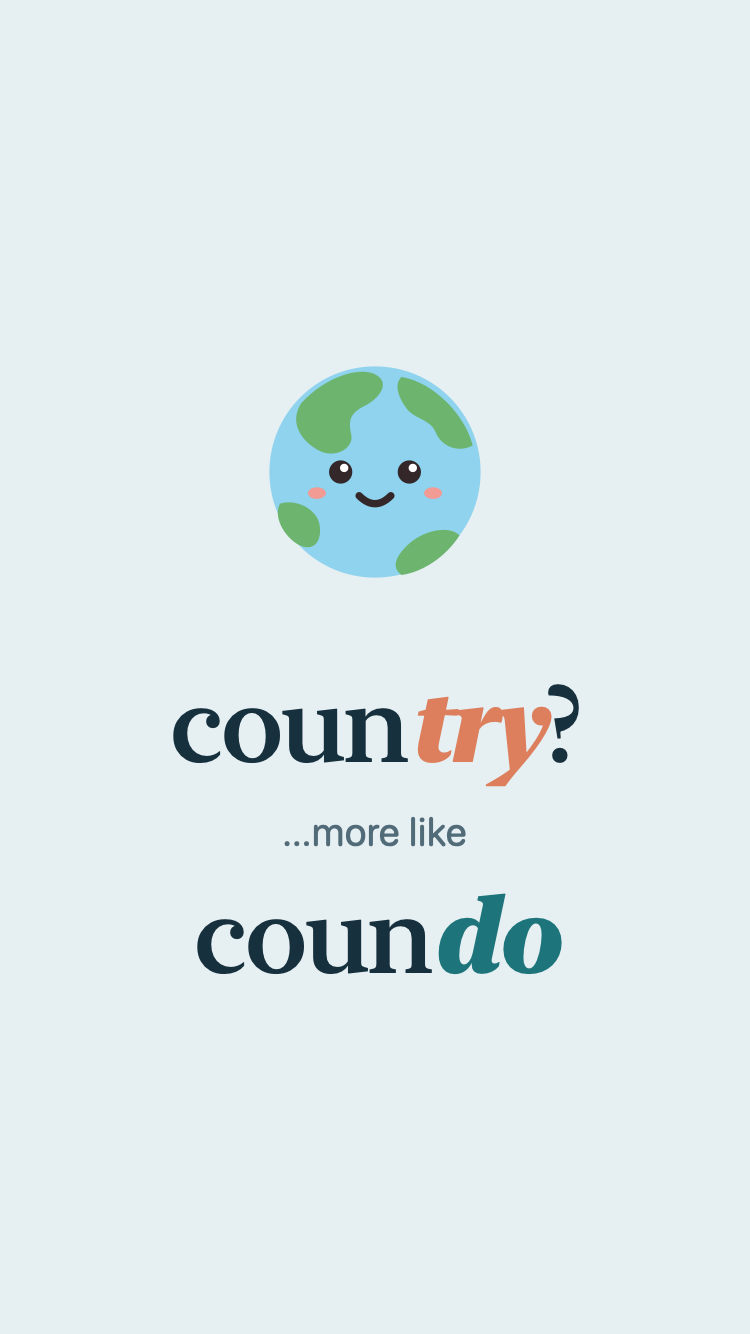
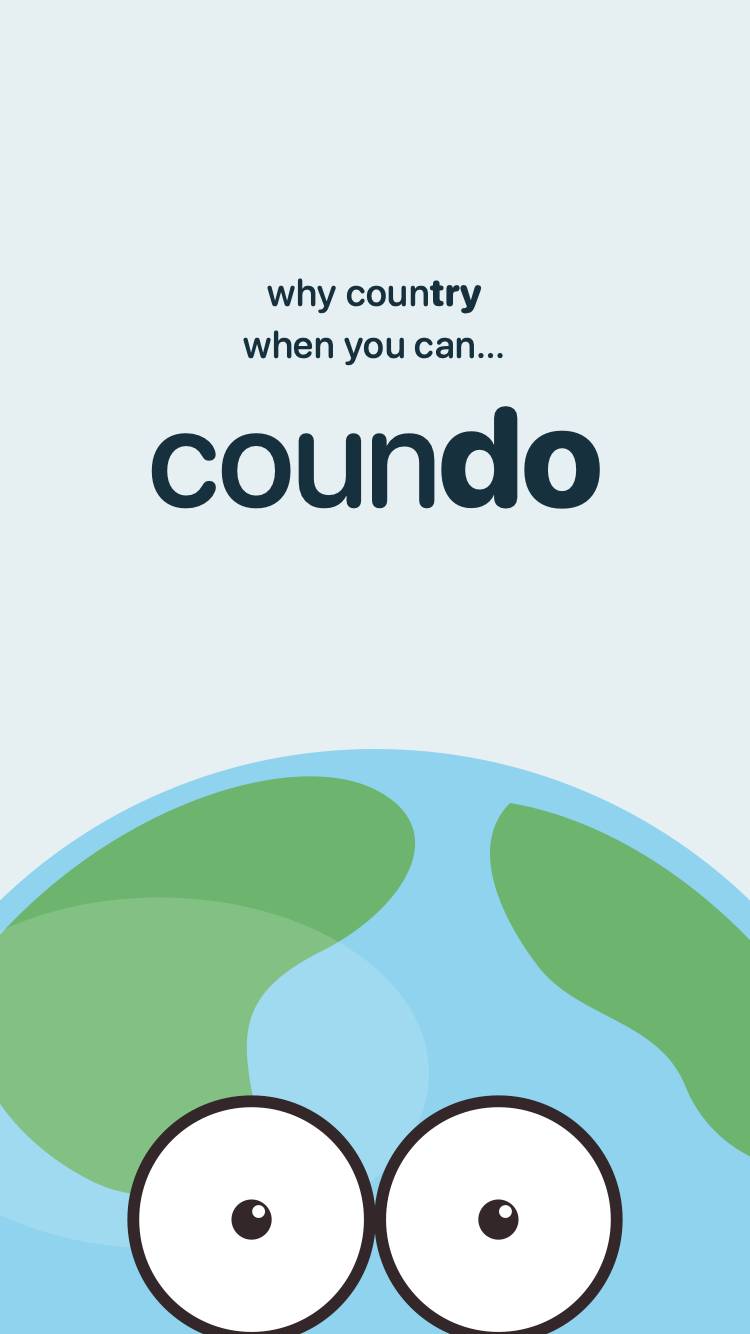
New peeking-globe splash and iPhone haptics that work on iOS 26.5

diff --git a/sw.js b/sw.js
@@ -1,5 +1,5 @@
 const PREFIX = 'coundo-';
-const CACHE = PREFIX + 'e4e51b957b';
+const CACHE = PREFIX + 'ba98c76bc4';
 const FILES = ["./","./index.html","./style.css","./manifest.webmanifest","./js/app.js","./js/characters.js","./js/draw.js","./js/flags.js","./js/fun-facts.js","./js/game.js","./js/haptics.js","./js/icons.js","./js/lesson.js","./js/map.js","./js/mix.js","./js/player.js","./js/preview.js","./js/questions.js","./js/rank-art.js","./js/screens.js","./js/sound.js","./js/splash.js","./js/srs.js","./js/stamp-art.js","./js/statistics.js","./js/stats.js","./js/store.js","./js/streak.js","./js/text.js","./js/theme.js","./js/ui.js","./js/util.js","./data/capital-locations.js","./data/countries.js","./data/flag-ratios.js","./data/fun-facts.js","./data/map.json","./data/similar-flags.js","./icons/icon-180.png","./icons/icon-192.png","./icons/icon-512.png","./flags/ad.svg","./flags/ae.svg","./flags/af.svg","./flags/ag.svg","./flags/al.svg","./flags/am.svg","./flags/ao.svg","./flags/ar.svg","./flags/at.svg","./flags/au.svg","./flags/az.svg","./flags/ba.svg","./flags/bb.svg","./flags/bd.svg","./flags/be.svg","./flags/bf.svg","./flags/bg.svg","./flags/bh.svg","./flags/bi.svg","./flags/bj.svg","./flags/bn.svg","./flags/bo.svg","./flags/br.svg","./flags/bs.svg","./flags/bt.svg","./flags/bw.svg","./flags/by.svg","./flags/bz.svg","./flags/ca.svg","./flags/cd.svg","./flags/cf.svg","./flags/cg.svg","./flags/ch.svg","./flags/ci.svg","./flags/cl.svg","./flags/cm.svg","./flags/cn.svg","./flags/co.svg","./flags/cr.svg","./flags/cu.svg","./flags/cv.svg","./flags/cy.svg","./flags/cz.svg","./flags/de.svg","./flags/dj.svg","./flags/dk.svg","./flags/dm.svg","./flags/do.svg","./flags/dz.svg","./flags/ec.svg","./flags/ee.svg","./flags/eg.svg","./flags/er.svg","./flags/es.svg","./flags/et.svg","./flags/fi.svg","./flags/fj.svg","./flags/fm.svg","./flags/fr.svg","./flags/ga.svg","./flags/gb.svg","./flags/gd.svg","./flags/ge.svg","./flags/gh.svg","./flags/gm.svg","./flags/gn.svg","./flags/gq.svg","./flags/gr.svg","./flags/gt.svg","./flags/gw.svg","./flags/gy.svg","./flags/hn.svg","./flags/hr.svg","./flags/ht.svg","./flags/hu.svg","./flags/id.svg","./flags/ie.svg","./flags/il.svg","./flags/in.svg","./flags/iq.svg","./flags/ir.svg","./flags/is.svg","./flags/it.svg","./flags/jm.svg","./flags/jo.svg","./flags/jp.svg","./flags/ke.svg","./flags/kg.svg","./flags/kh.svg","./flags/ki.svg","./flags/km.svg","./flags/kn.svg","./flags/kp.svg","./flags/kr.svg","./flags/kw.svg","./flags/kz.svg","./flags/la.svg","./flags/lb.svg","./flags/lc.svg","./flags/li.svg","./flags/lk.svg","./flags/lr.svg","./flags/ls.svg","./flags/lt.svg","./flags/lu.svg","./flags/lv.svg","./flags/ly.svg","./flags/ma.svg","./flags/mc.svg","./flags/md.svg","./flags/me.svg","./flags/mg.svg","./flags/mh.svg","./flags/mk.svg","./flags/ml.svg","./flags/mm.svg","./flags/mn.svg","./flags/mr.svg","./flags/mt.svg","./flags/mu.svg","./flags/mv.svg","./flags/mw.svg","./flags/mx.svg","./flags/my.svg","./flags/mz.svg","./flags/na.svg","./flags/ne.svg","./flags/ng.svg","./flags/ni.svg","./flags/nl.svg","./flags/no.svg","./flags/np.svg","./flags/nr.svg","./flags/nz.svg","./flags/om.svg","./flags/pa.svg","./flags/pe.svg","./flags/pg.svg","./flags/ph.svg","./flags/pk.svg","./flags/pl.svg","./flags/ps.svg","./flags/pt.svg","./flags/pw.svg","./flags/py.svg","./flags/qa.svg","./flags/ro.svg","./flags/rs.svg","./flags/ru.svg","./flags/rw.svg","./flags/sa.svg","./flags/sb.svg","./flags/sc.svg","./flags/sd.svg","./flags/se.svg","./flags/sg.svg","./flags/si.svg","./flags/sk.svg","./flags/sl.svg","./flags/sm.svg","./flags/sn.svg","./flags/so.svg","./flags/sr.svg","./flags/ss.svg","./flags/st.svg","./flags/sv.svg","./flags/sy.svg","./flags/sz.svg","./flags/td.svg","./flags/tg.svg","./flags/th.svg","./flags/tj.svg","./flags/tl.svg","./flags/tm.svg","./flags/tn.svg","./flags/to.svg","./flags/tr.svg","./flags/tt.svg","./flags/tv.svg","./flags/tw.svg","./flags/tz.svg","./flags/ua.svg","./flags/ug.svg","./flags/us.svg","./flags/uy.svg","./flags/uz.svg","./flags/va.svg","./flags/vc.svg","./flags/ve.svg","./flags/vn.svg","./flags/vu.svg","./flags/ws.svg","./flags/xk.svg","./flags/ye.svg","./flags/za.svg","./flags/zm.svg","./flags/zw.svg"];
 
 self.addEventListener('install', event => {

diff --git a/js/player.js b/js/player.js
@@ -1,5 +1,5 @@
 import { CONTINENT_BY_ID, COUNTRIES, REGION_BY_ID } from '../data/countries.js';
-import { TIME_LIMIT_MS, advance, applyAnswer, currentItem, difficulty, finish, finishedRegions, isNewFact, meetCountry, testRules } from './lesson.js';
+import { TIME_LIMIT_MS, advance, applyAnswer, currentItem, difficulty, finish, finishedRegions, isFinalItem, isNewFact, meetCountry, testRules } from './lesson.js';
 import { makeQuestion } from './questions.js';
 import { checkCapital } from './text.js';
 import { WorldMap, boxFromDegrees, shapeOf } from './map.js';
@@ -10,7 +10,7 @@ import { flag, preloadFlags, revealTogether } from './flags.js';
 import { SKILL_NAMES, button, countryMap, mysteryStamp, stamp, tone } from './ui.js';
 import { cactusCharacter, confetti, flameCharacter, globeCharacter } from './characters.js';
 import { filledIcon, icon, rankBadge } from './icons.js';
-import { celebrate, tap } from './haptics.js';
+import { ANSWER_BUZZ, FINISH_BUZZ, buzz, hapticOnTap } from './haptics.js';
 import { play } from './sound.js';
 import { h } from './util.js';
 
@@ -120,6 +120,7 @@ export function runSession(root, ctx, session, onExit) {
       });
       settle(correct, explain(code, correct));
     };
+    hapticOnTap(buttons[q.options.indexOf(q.code)]);
     target.append(h('div', { class: `options${two ? ' two' : ''}` }, buttons));
     const frames = buttons.flatMap(b => b.querySelector('.flag') ?? []);
     if (frames.length === 0) return;
@@ -149,6 +150,7 @@ export function runSession(root, ctx, session, onExit) {
       const input = h('input', {
         class: 'answer', type: 'text', placeholder: 'Type the capital', 'aria-label': 'Capital',
         autocomplete: 'off', autocorrect: 'off', autocapitalize: 'words', spellcheck: 'false', enterkeyhint: 'done',
+        onInput: () => hapticOnTap(check, input.value.trim() !== '' && checkCapital(q.code, input.value) !== 'wrong'),
       });
       const submit = typed => {
         if (input.disabled) return;
@@ -163,8 +165,9 @@ export function runSession(root, ctx, session, onExit) {
         settle(correct, [spelling, capitalNote(q.code)].join(' ').trim());
       };
       const form = h('form', { class: 'stack', onSubmit: e => { e.preventDefault(); if (input.value.trim()) submit(input.value); } }, input);
+      const check = h('button', { class: 'btn', type: 'button', onClick: () => { if (input.value.trim()) submit(input.value); } }, 'Check');
       const controls = h('div', { class: 'stack' },
-        h('button', { class: 'btn', type: 'submit' }, 'Check'),
+        check,
         button("I don't know", () => submit(null), 'plain'));
       form.append(controls);
       target.append(prompt('What is the capital of', `${COUNTRIES[q.code].inSentence}?`), form);
@@ -199,6 +202,7 @@ export function runSession(root, ctx, session, onExit) {
           map.emphasis = new Map([[code, '--accent']]);
           map.draw();
           check.disabled = false;
+          hapticOnTap(check, code === q.code);
         },
       }));
       const check = button('Check', () => {
@@ -254,8 +258,9 @@ export function runSession(root, ctx, session, onExit) {
     applyAnswer(state, session, correct, today);
     persist();
     play(correct ? 'right' : 'wrong', state.settings.sound);
-    if (correct) tap();
+    if (correct) buzz(ANSWER_BUZZ);
     const go = button('Continue', next);
+    if (isFinalItem(session)) hapticOnTap(go);
     footer.replaceChildren(h('div', { class: `feedback ${correct ? 'right' : 'wrong'}`, role: 'status' },
       h('div', {}, h('strong', {}, correct ? 'Correct' : 'Not quite'), message && h('p', {}, message)),
       go));
@@ -268,7 +273,7 @@ export function runSession(root, ctx, session, onExit) {
     finish(state, session, today);
     ctx.save();
     play('finish', state.settings.sound);
-    celebrate();
+    buzz(FINISH_BUZZ);
     showResults();
   }
 

diff --git a/index.html b/index.html
@@ -53,11 +53,11 @@
 </head>
 <body>
   <div id="app"></div>
-  <div id="splash" role="img" aria-label="Country? More like coundo.">
-    <svg viewBox="0 0 100 100"><circle cx="50" cy="50" r="40" fill="#8fd3ee"></circle><path fill="#6db56f" d="M22 24c9-10 22-14 28-11s2 9-4 12-6 6-5 11-6 9-12 6-12-10-7-18zM60 14c12 2 24 14 27 26-6 3-12 0-14-5s-8-5-11-9-5-9-2-12zM14 62c6-2 14 2 15 8s-2 10-7 8-11-10-8-16zM62 78c6-6 16-8 20-4-5 8-14 14-22 15-4-3-2-7 2-11z"></path><circle cx="37" cy="50" r="4.4" fill="#33272a"></circle><circle cx="38.32" cy="48.46" r="1.584" fill="#fff"></circle><circle cx="63" cy="50" r="4.4" fill="#33272a"></circle><circle cx="64.32" cy="48.46" r="1.584" fill="#fff"></circle><ellipse cx="28" cy="58" rx="3.4" ry="2.2" fill="#f29a94"></ellipse><ellipse cx="72" cy="58" rx="3.4" ry="2.2" fill="#f29a94"></ellipse><path d="M44 59q6 6 12 0" fill="none" stroke="#33272a" stroke-width="2.8" stroke-linecap="round" stroke-linejoin="round"></path></svg>
-    <p class="splash-word">coun<em class="try">try</em>?</p>
-    <p class="splash-aside">…more like</p>
-    <p class="splash-word last">coun<em class="do">do</em></p>
+  <div id="splash" role="img" aria-label="Why country when you can coundo.">
+    <p class="splash-line">why coun<b>try</b></p>
+    <p class="splash-line">when you can…</p>
+    <p class="splash-word">coun<b>do</b></p>
+    <svg class="splash-peek" viewBox="-164 -130 840 840"><g transform="translate(256 290) rotate(0) scale(10.5) translate(-50 -50)"><clipPath id="splash-g9"><circle cx="50" cy="50" r="40"/></clipPath><circle cx="50" cy="50" r="40" fill="#8fd3ee"/><g clip-path="url(#splash-g9)"><path fill="#6db56f" d="M22 24c9-10 22-14 28-11s2 9-4 12-6 6-5 11-6 9-12 6-12-10-7-18zM60 14c12 2 24 14 27 26-6 3-12 0-14-5s-8-5-11-9-5-9-2-12zM14 62c6-2 14 2 15 8s-2 10-7 8-11-10-8-16zM62 78c6-6 16-8 20-4-5 8-14 14-22 15-4-3-2-7 2-11z"/><ellipse cx="34" cy="34" rx="20" ry="13" fill="#ffffff26"/></g></g><clipPath id="splash-e10"><ellipse cx="160" cy="236" rx="92" ry="92"/></clipPath><ellipse cx="160" cy="236" rx="92" ry="92" fill="#fff"/><g clip-path="url(#splash-e10)"><circle cx="160" cy="236" r="15.64" fill="#33272a"/><circle cx="165.474" cy="229.744" r="5.0048" fill="#fff"/></g><ellipse cx="160" cy="236" rx="92" ry="92" fill="none" stroke="#33272a" stroke-width="9.200000000000001"/><clipPath id="splash-e11"><ellipse cx="352" cy="236" rx="92" ry="92"/></clipPath><ellipse cx="352" cy="236" rx="92" ry="92" fill="#fff"/><g clip-path="url(#splash-e11)"><circle cx="352" cy="236" r="15.64" fill="#33272a"/><circle cx="357.474" cy="229.744" r="5.0048" fill="#fff"/></g><ellipse cx="352" cy="236" rx="92" ry="92" fill="none" stroke="#33272a" stroke-width="9.200000000000001"/><path d="M206 404q50 34 100 0" fill="none" stroke="#33272a" stroke-width="14" stroke-linecap="round" stroke-linejoin="round"/><ellipse cx="110" cy="360" rx="26" ry="14" fill="#f29a94" opacity=".8"/><ellipse cx="402" cy="360" rx="26" ry="14" fill="#f29a94" opacity=".8"/></svg>
   </div>
   <script type="module" src="./js/app.js"></script>
 </body>

diff --git a/style.css b/style.css
@@ -361,6 +361,9 @@ select { -webkit-appearance: none; appearance: none; background: var(--raised); 
 .options.two { grid-template-columns: 1fr 1fr; }
 .option { min-height: 58px; padding: 10px 16px; border-radius: 17px; background: var(--surface); font-weight: 600; font-size: 18px; line-height: 1.2; border: 2.5px solid transparent; transition: border-color 0.15s, background 0.15s; overflow-wrap: anywhere; }
 .options.two .option { font-size: 16px; padding: 8px 10px; }
+:is(.option, .btn):has(> .haptic) { position: relative; }
+.haptic { position: absolute; inset: 0; z-index: 1; border-radius: inherit; }
+.haptic input { position: absolute; width: 1px; height: 1px; opacity: 0; pointer-events: none; }
 .option.right { border-color: var(--good); background: var(--good-soft); }
 .option.wrong { border-color: var(--bad); background: var(--bad-soft); }
 .option:disabled { color: inherit; }
@@ -419,16 +422,14 @@ select { -webkit-appearance: none; appearance: none; background: var(--raised); 
 .new-title h3 { font-size: 25px; }
 @media (max-height: 700px) { .results-picture { min-height: 136px; width: 200px; } .results-picture .character { width: 96px; height: 113px; } .results-picture .character-small { width: 104px; height: 104px; } }
 
-#splash { position: fixed; inset: 0; z-index: 50; background: var(--bg); display: flex; flex-direction: column; align-items: center; justify-content: center; text-align: center; transition: opacity 0.3s; }
+#splash { position: fixed; inset: 0; z-index: 50; background: var(--bg); display: flex; flex-direction: column; align-items: center; justify-content: center; text-align: center; padding-bottom: 72vw; transition: opacity 0.3s; }
 #splash > * { position: relative; top: var(--splash-nudge, 0px); }
 #splash.leaving { opacity: 0; pointer-events: none; }
-#splash svg { width: 132px; height: 132px; margin-bottom: 30px; animation: splash-sway 1.8s ease-in-out infinite; }
-.splash-word { font: 500 54px/1.1 var(--serif); letter-spacing: -0.015em; }
-.splash-word em { font-weight: 800; font-style: italic; }
-.splash-word .try { color: var(--as); }
-.splash-word .do { color: var(--accent); }
-.splash-aside { font-size: 20px; color: var(--muted); margin: 10px 0 8px; }
-@keyframes splash-sway { 25% { transform: rotate(4deg) translateY(-4px); } 75% { transform: rotate(-4deg) translateY(-4px); } }
+.splash-line { font: 500 19px/1.35 var(--round); }
+.splash-word { font: 500 70px/1.05 var(--round); letter-spacing: -0.02em; margin-top: 6px; }
+#splash b { font-weight: 800; }
+#splash > .splash-peek { position: absolute; top: auto; left: 50%; bottom: -66vw; width: 144vw; height: 144vw; margin-left: -72vw; animation: splash-peek 2.4s ease-in-out infinite; }
+@keyframes splash-peek { 50% { transform: translateY(-10px); } }
 
 .welcome { flex: 1; overflow-y: auto; padding: calc(var(--top) + 22px) 22px calc(var(--bottom) + 18px); display: flex; flex-direction: column; gap: 18px; }
 .welcome h1 { font: 700 44px/1.05 var(--serif); }

diff --git a/js/haptics.js b/js/haptics.js
@@ -1,25 +1,20 @@
-export function tap() {
-  if (navigator.vibrate) {
-    navigator.vibrate(12);
-    return;
-  }
-  // iOS Safari has no vibrate API, but toggling a switch checkbox plays the system haptic (iOS 18+).
-  const label = document.createElement('label');
-  label.ariaHidden = 'true';
-  label.style.display = 'none';
-  const input = document.createElement('input');
-  input.type = 'checkbox';
-  input.setAttribute('switch', '');
-  label.append(input);
-  document.head.append(label);
-  label.click();
-  label.remove();
+import { h } from './util.js';
+
+const canVibrate = typeof navigator.vibrate === 'function';
+
+export const ANSWER_BUZZ = 12;
+export const FINISH_BUZZ = [14, 90, 14, 90, 24];
+
+export function buzz(pattern) {
+  if (canVibrate) navigator.vibrate(pattern);
 }
 
-export function celebrate() {
-  if (navigator.vibrate) {
-    navigator.vibrate([14, 90, 14, 90, 24]);
-    return;
-  }
-  [0, 110, 220].forEach(delay => setTimeout(tap, delay));
+// iOS has no vibrate API and, since iOS 26.5, only plays the switch haptic when the user's own tap flips the switch, so an invisible one sits over the button.
+export function hapticOnTap(button, on = true) {
+  if (canVibrate) return;
+  const existing = button.querySelector(':scope > .haptic');
+  if (!on) existing?.remove();
+  if (!on || existing) return;
+  const input = h('input', { type: 'checkbox', switch: true, tabindex: '-1', onClick: e => e.stopPropagation() });
+  button.append(h('label', { class: 'haptic', 'aria-hidden': 'true' }, input));
 }

diff --git a/js/lesson.js b/js/lesson.js
@@ -227,6 +227,12 @@ export function applyAnswer(state, session, correct, today) {
   if (correct) award(state, session, today, xpForAnswer(item.q?.format, item.phase));
 }
 
+export function isFinalItem(session) {
+  if (session.type === 'lesson' && session.elapsed >= TIME_LIMIT_MS) return true;
+  if (session.idx + 1 < session.items.length) return false;
+  return session.type === 'test' || session.fixAdded || session.result.missed.length === 0;
+}
+
 export function advance(session, rng = Math.random) {
   const previous = currentItem(session);
   session.idx += 1;
